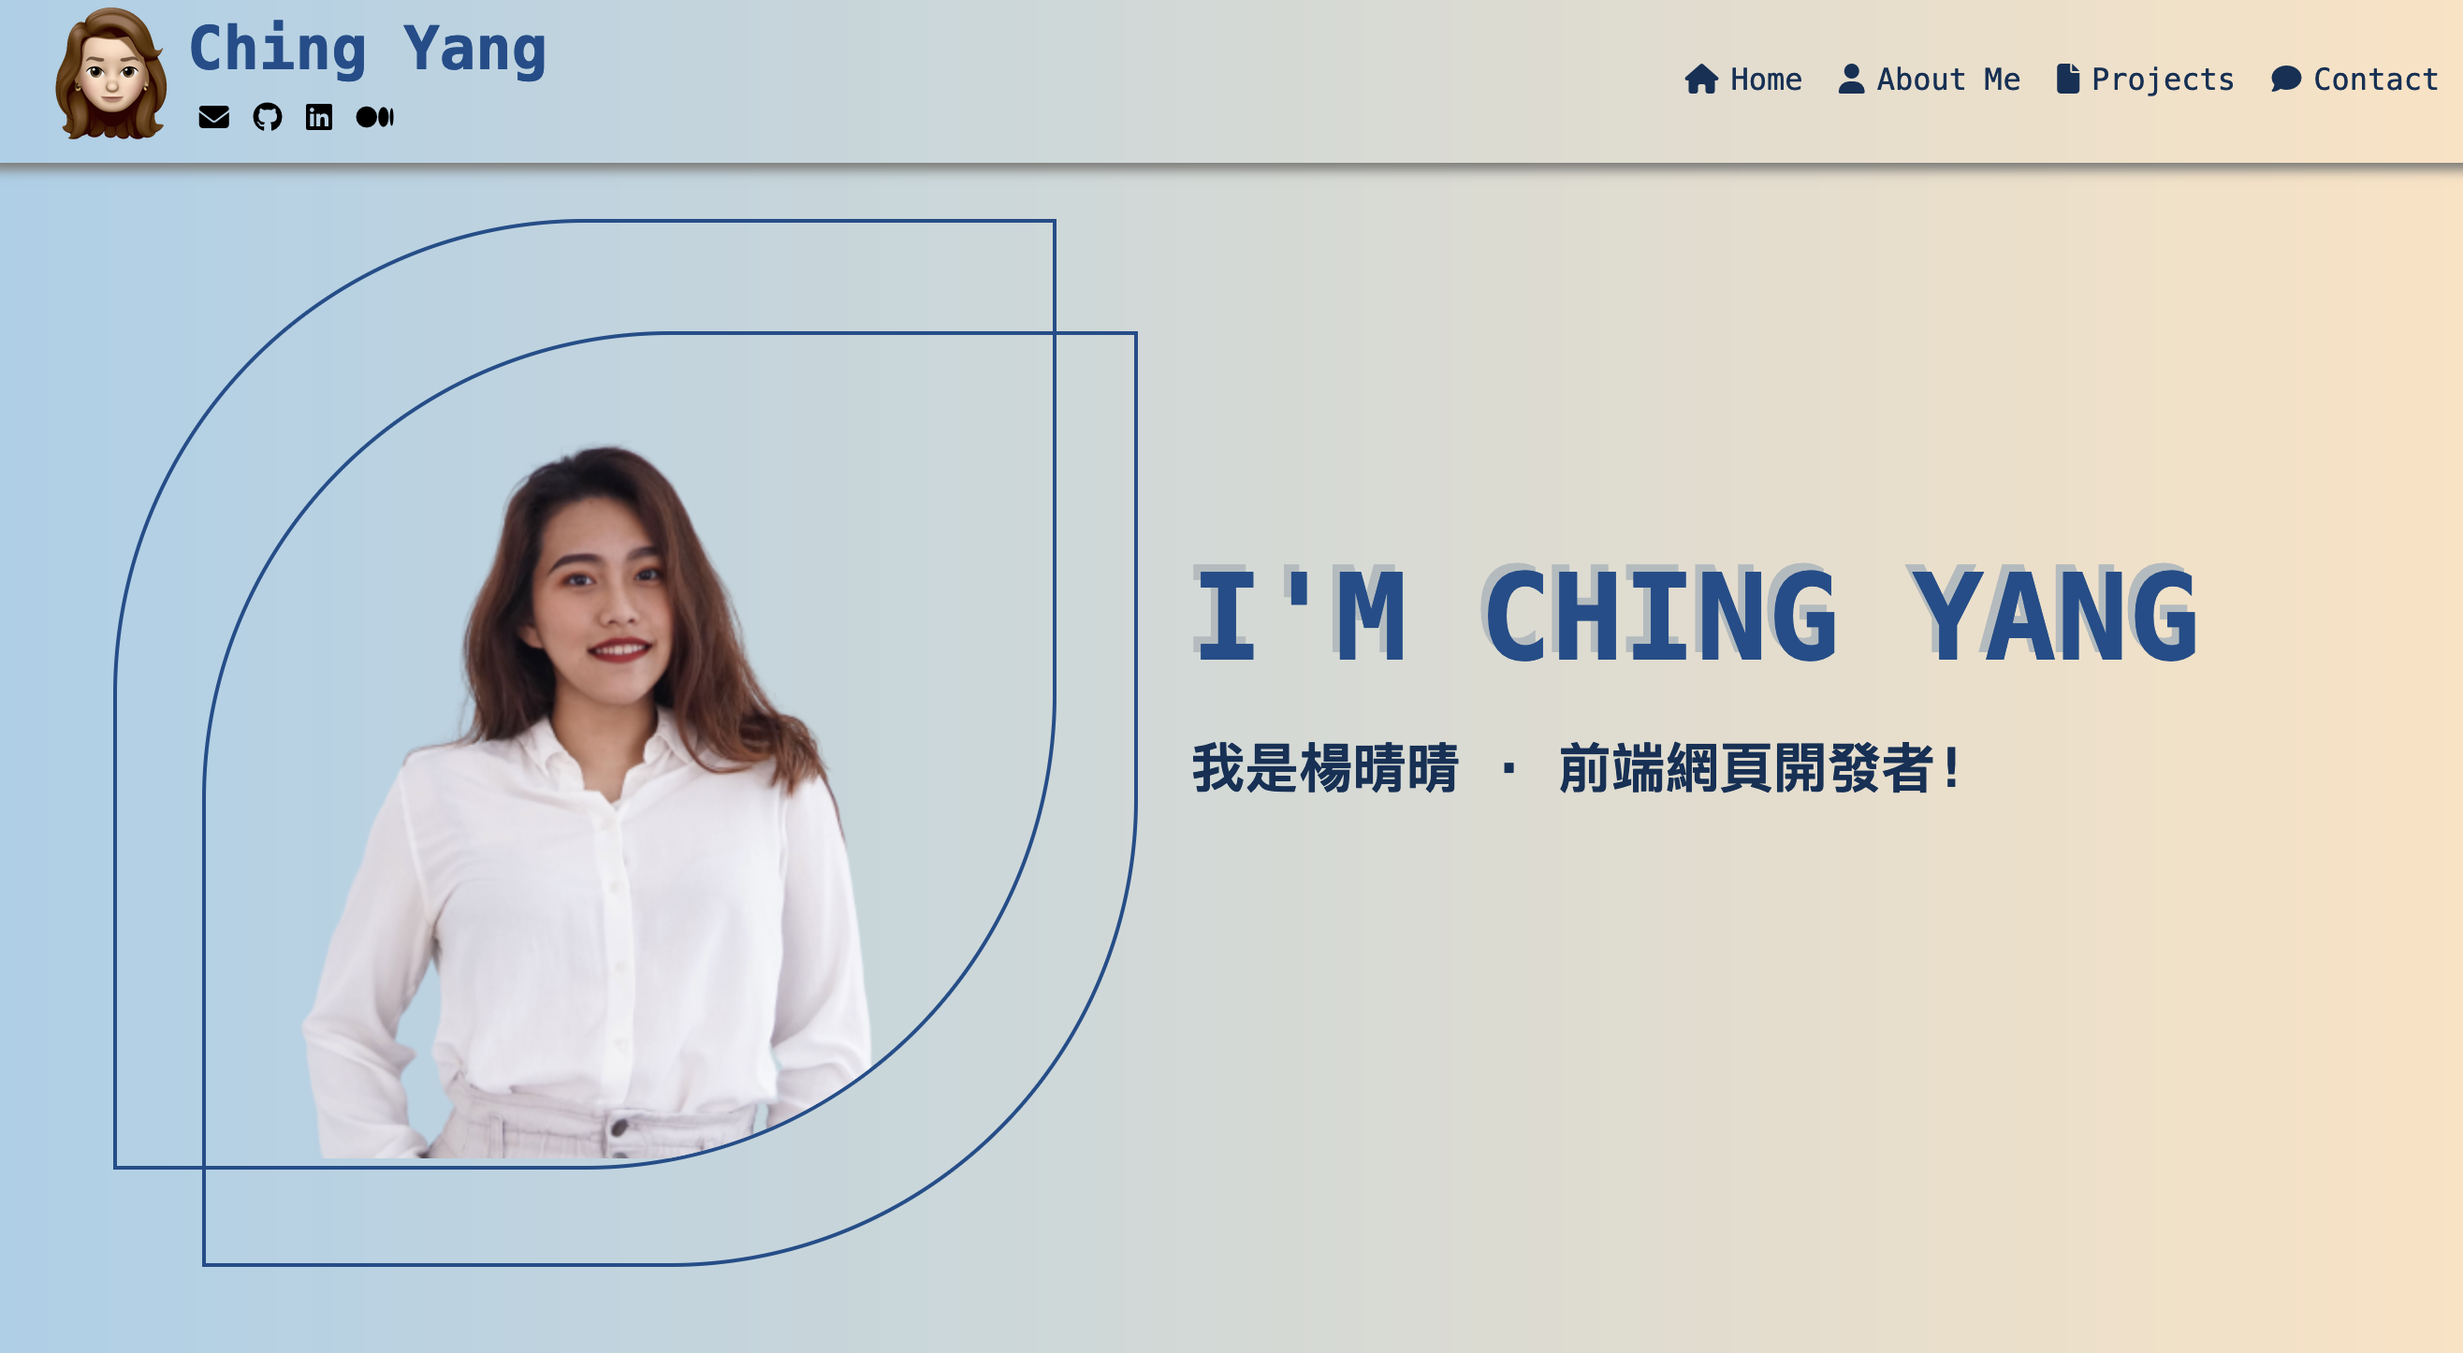
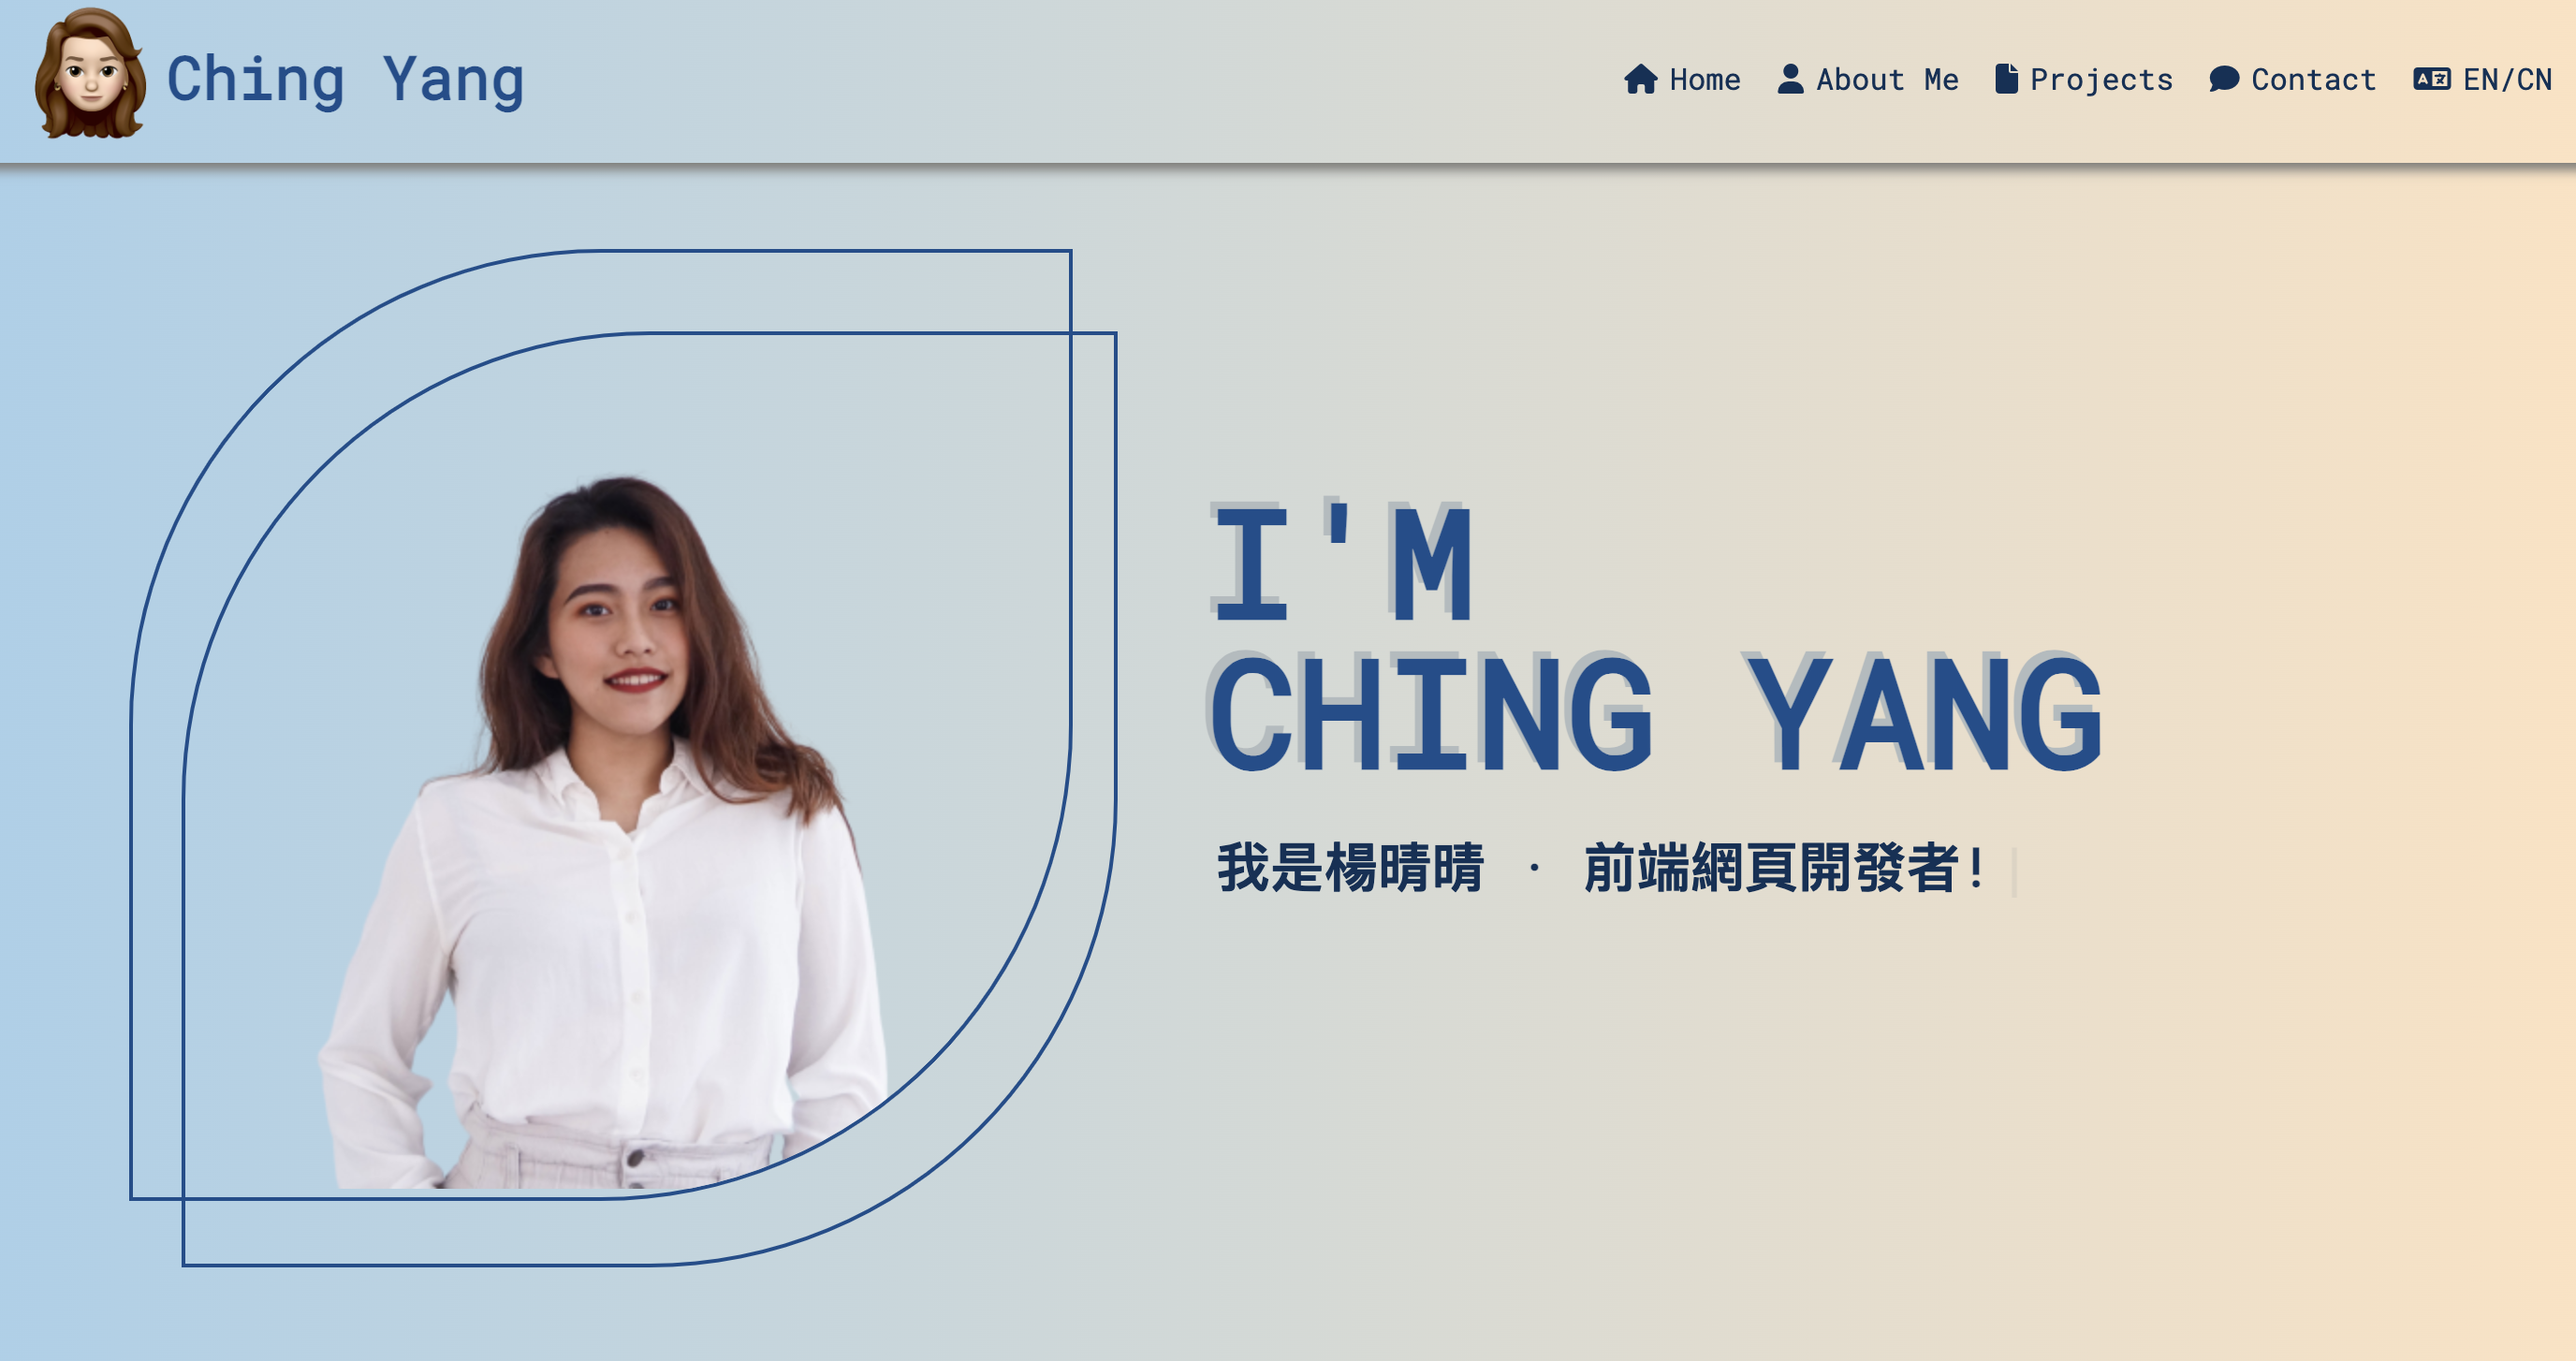
feat: new add the english version of portfolio

diff --git a/src/components/AboutEN.jsx b/src/components/AboutEN.jsx
@@ -1,0 +1,117 @@
+import React from "react";
+
+const About = () => {
+  const data = [
+    {
+      id: "1",
+      period: "2022/11-2023/03",
+      company: "Amway Taiwan Co., Ltd.",
+      position: "Marketing Specialist",
+      desc: "Execution of product launch online activities.",
+      desc_2: "Content planning of Brand official website and E-commerce.",
+    },
+    {
+      id: "2",
+      period: "2022/01-2022/08",
+      company: "Carat Media Taiwan Ltd.",
+      position: "Senior Planner",
+      desc: "Media planning and budget allocation for APP Performance",
+      desc_2:
+        "APP interface and material insights for APP Performance optimization suggestions  ",
+    },
+    {
+      id: "3",
+      period: "2021/08-2021/12",
+      company: "Ogilvy Taiwan Ltd.",
+      position: "Senior Account Executive",
+      desc: "Manage and Plan monthly social platform for having over 100 creative posts",
+      desc_2: "Lead the digital project - AR filter",
+    },
+    {
+      id: "4",
+      period: "2020/05-2021/08",
+      company: "Agein Media & Communication Ltd.",
+      position: "Media Planner",
+      desc: "Develop annual media plan for brand",
+      desc_2:
+        "Develop creative media plan for the brand anniversary, through a campaign website and creative ads.",
+    },
+  ];
+  return (
+    <div id="about">
+      <div className="section_title">
+        <h1>About Me</h1>
+      </div>
+      <div className="section_container">
+        <div className="shape"></div>
+        <div className="info">
+          <div className="summary">
+            <h3>
+              <i class="fa-solid fa-face-smile"></i> Summary
+            </h3>
+            <p>
+              {" "}
+              With advertising and media background, like to learn new things,
+              challenge myself, have my own perspective on aesthetics and user
+              experience.
+              <br />
+              Currently focus on research in the front-end field, through
+              self-learning of online courses, I hope to become a front-end web
+              developer .
+              <br />
+              Mainly use React.js, JavaScript, HTML, SCSS for project
+              development and page design.{" "}
+            </p>
+          </div>
+          <div className="skills">
+            <h3>
+              <i class="fa-solid fa-screwdriver-wrench"></i> Skills{" "}
+            </h3>
+            <ul>
+              <li>
+                Front-end: HTML、CSS、SCSS、Javascript、 Bootstrap、React.js
+                、React Router、 Webpack、Git、Node.js、RWD
+              </li>
+              <li>Multimedia：GA、iMovie、Adobe PS、Figma</li>
+            </ul>
+          </div>
+          <div className="learning">
+            <h3>
+              <i class="fa-solid fa-book"></i> Self-Learning
+            </h3>
+            <ul>
+              <li>ALPHA Camp - JavaScript 全端開發</li>
+              <li>Udemy - 網頁全端開發、Modern React with Redux</li>
+            </ul>
+          </div>
+        </div>
+        <div className="works">
+          <h3>
+            <i class="fa-solid fa-briefcase"></i> Work Experience{" "}
+          </h3>
+          {data.map((d) => {
+            return (
+              <div className="work">
+                <div className="period">
+                  <span>{d.period}</span>
+                </div>
+
+                <div className="content">
+                  <p className="company">
+                    {d.company} <span className="position">{d.position}</span>
+                  </p>
+                  <p className="description">
+                    1. {d.desc} <br />
+                    2. {d.desc_2}
+                  </p>
+                </div>
+              </div>
+            );
+          })}
+        </div>
+      </div>
+    </div>
+  );
+};
+
+export default About;

diff --git a/src/components/ProjectsEN.jsx b/src/components/ProjectsEN.jsx
@@ -1,0 +1,107 @@
+import React from "react";
+import img1 from "../assets/portfolioEN.png";
+import img3 from "../assets/arcade-game.png";
+import img2 from "../assets/img-generator.png";
+
+const Projects = () => {
+  const data = [
+    {
+      id: "1",
+      name: "myPortfolio",
+      tag1: "React.js",
+      tag2: "SCSS",
+      tag3: "Node.js",
+      desc: "A single page application for displaying my experience and projects.",
+      img: img1,
+      demo: "",
+      repo: "https://github.com/cching01099/myportfolio",
+    },
+    {
+      id: "2",
+      name: "Image Generator",
+      tag1: "React.js",
+      tag2: "SCSS",
+      tag3: "Node.js",
+      desc: "A single application of free image assets of 3 sites by using axios to fetch data.",
+      img: img2,
+      demo: "https://cching01099.github.io/ImageGenerator-React/",
+      repo: "https://github.com/cching01099/ImageGenerator-React",
+    },
+    {
+      id: "3",
+      name: "Arcade Game",
+      tag1: "JavaScript",
+      tag2: "SCSS",
+      tag3: "HTML",
+      desc: "Collection of Browser Games which mainly build in Vanilla JavaScript.",
+      img: img3,
+      demo: "https://cching01099.github.io/ArcadeGame/",
+      repo: "https://github.com/cching01099/ArcadeGame",
+    },
+  ];
+
+  return (
+    <div id="projects">
+      <div className="section_title">
+        <h1>Projects</h1>
+      </div>
+      <div className="section_container">
+        <div className="project">
+          {data.map((d) => (
+            <div className="item">
+              <div className="info">
+                <h1>
+                  0{d.id}.{" "}
+                  <div className="tag">
+                    <span className="tag1 ">{d.tag1}</span>
+                    <span className="tag2">{d.tag2}</span>
+                    <span className="tag3">{d.tag3}</span>
+                  </div>
+                </h1>
+
+                <h2>{d.name}</h2>
+
+                <div className="others">
+                  <p>{d.desc}</p>
+                  <div className="links">
+                    <a
+                      href={d.demo}
+                      target="_blank"
+                      class="link"
+                      rel="noopener noreferrer"
+                    >
+                      <i class="fa-solid fa-globe"></i>demo
+                    </a>
+                    <a
+                      href={d.repo}
+                      target="_blank"
+                      class="link"
+                      rel="noopener noreferrer"
+                    >
+                      <i class="fa-brands fa-github"></i>repo
+                    </a>
+                  </div>
+                </div>
+              </div>
+              <div className="image">
+                <img src={d.img} alt="" />
+              </div>
+            </div>
+          ))}
+        </div>
+      </div>
+
+      <div className="section_more">
+        <a
+          href="https://github.com/cching01099?tab=repositories"
+          target="_blank"
+          rel="noopener noreferrer"
+        >
+          ...see more projects
+        </a>
+      </div>
+    </div>
+  );
+};
+
+export default Projects;

diff --git a/src/components/Navbar.jsx b/src/components/Navbar.jsx
@@ -1,7 +1,7 @@
 import React from "react";
 import avatar from "../assets/avatar.png";
 
-const Navbar = () => {
+const Navbar = ({ onToggleLanguage }) => {
   return (
     <nav id="header">
       <div className="title">
@@ -10,39 +10,6 @@ const Navbar = () => {
         </div>
         <div className="info">
           <h2>Ching Yang</h2>
-
-          <a
-            href="mailto: cching01099@gmail.com"
-            className="mail"
-            target="_blank"
-            rel="noopener noreferrer"
-          >
-            <i class="fa-solid fa-envelope"></i>
-          </a>
-          <a
-            href="https://github.com/cching01099"
-            className="github"
-            target="_blank"
-            rel="noopener noreferrer"
-          >
-            <i class="fa-brands fa-github"></i>
-          </a>
-          <a
-            href="https://www.linkedin.com/in/ching-yang-b1549923a/"
-            className="linkedin"
-            target="_blank"
-            rel="noopener noreferrer"
-          >
-            <i class="fa-brands fa-linkedin"></i>
-          </a>
-          <a
-            href="https://medium.com/@cching01099"
-            className="medium"
-            target="_blank"
-            rel="noopener noreferrer"
-          >
-            <i class="fa-brands fa-medium"></i>
-          </a>
         </div>
       </div>
       <div className="menu">
@@ -61,6 +28,10 @@ const Navbar = () => {
         <a href="#contact" className="download">
           <i class="fa-solid fa-comment"></i>
           <span className="text">Contact</span>
+        </a>
+        <a href="#" className="languageChange" onClick={onToggleLanguage}>
+          <i class="fa-solid fa-language"></i>
+          <span className="text">EN/CN</span>
         </a>
       </div>
     </nav>

diff --git a/src/App.jsx b/src/App.jsx
@@ -1,4 +1,4 @@
-import React from "react";
+import React, { useState } from "react";
 import Navbar from "./components/Navbar";
 import Home from "./components/Home";
 import About from "./components/About";
@@ -6,14 +6,33 @@ import Projects from "./components/Projects";
 import Contact from "./components/Contact";
 import Footer from "./components/Footer";
 import "./styles/style.css";
+import HomeEN from "./components/HomeEN";
+import AboutEN from "./components/AboutEN";
+import ProjectsEN from "./components/ProjectsEN";
 
 function App() {
+  const [isEnglish, setIsEnglish] = useState(false);
+
+  const handleToggleLanguage = () => {
+    setIsEnglish(!isEnglish);
+  };
+
   return (
     <div className="app">
-      <Navbar />
-      <Home />
-      <About />
-      <Projects />
+      <Navbar onToggleLanguage={handleToggleLanguage} />
+      {!isEnglish ? (
+        <>
+          <Home />
+          <About />
+          <Projects />
+        </>
+      ) : (
+        <>
+          <HomeEN />
+          <AboutEN />
+          <ProjectsEN />
+        </>
+      )}
       <Contact />
       <Footer />
     </div>

diff --git a/src/components/HomeEN.jsx b/src/components/HomeEN.jsx
@@ -5,10 +5,10 @@ import { Typewriter } from "react-simple-typewriter";
 
 const Home = () => {
   const spanText = [
-    " 前端網頁開發者!",
-    " 廣告媒體人!",
-    " 愛冒險愛旅行!",
-    " 更愛新奇事物!",
+    " A Front-End Web Developer!",
+    " A Marketer!",
+    " An Adventurer!",
+    " A New-things & Bagel lover!",
   ];
 
   return (
@@ -30,7 +30,7 @@ const Home = () => {
             }}
           >
             {" "}
-            我是楊晴晴 ·
+            This is me ·
             <Typewriter
               words={spanText}
               loop={Infinity}

diff --git a/src/components/Contact.jsx b/src/components/Contact.jsx
@@ -18,7 +18,7 @@ const Contact = () => {
               rel="noopener noreferrer"
             >
               <i class="fa-solid fa-download"></i>
-              英文版
+              English Ver.
             </a>
             <a
               href="https://acrobat.adobe.com/id/urn:aaid:sc:AP:b577815b-f44e-42f1-9138-c29ff863938c"
